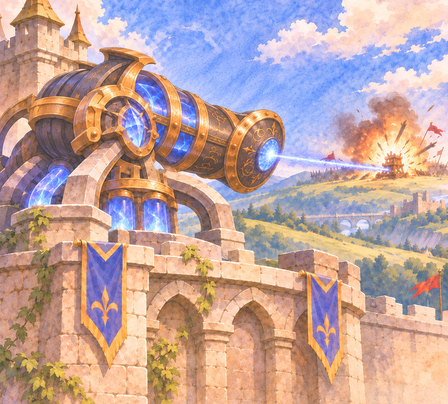
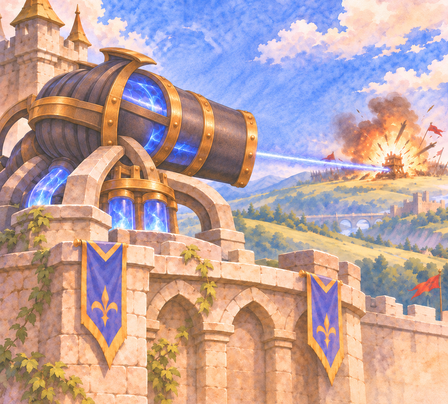
art: 充能巨炮 R876 去端面设计（侧视角不画炮口）
- 9139：删除炮管末端的封闭端盖/发光镜面，只留一道黄铜箍收口，管口被透视压掉，光束从管口沿中轴射向爆炸的攻城器
- 448×404 RGBA 入库，备份 art_src/2026-11-26_应用备份_r876/
- 用户确认归档（不再改动）：9156 蓄势 v5、9272 连斩 v5、9041 快速出击 v4、9016 犀牛 v6

diff --git a/HANDOFF.md b/HANDOFF.md
@@ -3329,3 +3329,17 @@ art_src/2026-11-23_frames 包含六类独立卡框和提示词框架。内置ima
 - 9016 v6：A = R873 的 v3（本来就没毛没甲、水彩质感），B = 11-25 v2（仅取圆润比例短腿），prompt 逐条禁掉鬃毛/兜帽/头巾/头盔/披发；结果额头与鼻梁全裸露，只剩颈背一窄条短硬鬃 → 取 v6 入库。
 - 应用：2 张 448×404 入 assets/pics/，备份 art_src/2026-11-26_应用备份_r875/ + _apply_r875.json；Godot --headless --editor --import 通过。未提交。
 - 教训：**否定式指令对图生图基本无效**（连写两轮「no hole」还是出洞）。有效做法是①给出正向目标形态的完整描述；②另附一张局部本来就正确的图当参考；③要去掉某样东西，就换一张本来没有它的图当底，别在带它的图上做减法。
+
+## 2026-11-26 炮口局部修改 v9
+- 目标：移除炮口圆盘及侧面圆饰，保留原场景和单束闪电。
+- 修改：新增 raw/9139_充能巨炮_v9.png（R875 目录），原图保留；内置 imagegen 编辑。提示词按本轮用户要求：隐藏炮口内孔、末端素黄铜箍、侧面铁板铆钉，其余场景保留。
+- 验证：已目视检查生成图；无可见炮口孔洞，侧面圆盘移除。未接入游戏。
+- 已知问题：git.exe 执行拒绝访问，无法检查已有修改或提交；本轮未推送。
+- 下一步：用户评审 v9；恢复 Git 后仅提交本轮图片及本条交接记录。
+- 对应提交：无（Git 执行受限）。
+
+## 2026-11-26 R876 充能巨炮去端面（其余四张确认归档）
+- 判定修正：这门炮是侧视，炮口本来就不该看见。R875 v8 那块「封闭端盖 + 发光镜面」属于多余设计，透视上反而成了「炮口长在炮侧面」。v9 把端面设计整个删掉，炮管只留一道黄铜箍收口，管口朝右后方被透视压掉，光束从管口沿中轴射向右侧爆炸的攻城器。
+- 批次 art_src/2026-11-26_充能巨炮炮口简化_R876/（prompts + raw + _batch.log），入 assets/pics/9139.png（448×404 RGBA），备份 art_src/2026-11-26_应用备份_r876/ + _apply_r876.json。Godot --import 通过，448×404 裁切后炮身/管口/光束/爆炸点全在画面内。
+- 用户确认归档（不再改动）：9156 蓄势 v5、9272 连斩 v5、9041 快速出击 v4、9016 犀牛 v6。
+- 教训：侧视角下「朝向离开镜头」的部件不要补端面细节 —— 那是给不可见的地方硬造一个正面，必然显得长在侧面。先判断该部件在这个视角该不该被看见，再决定画不画。
